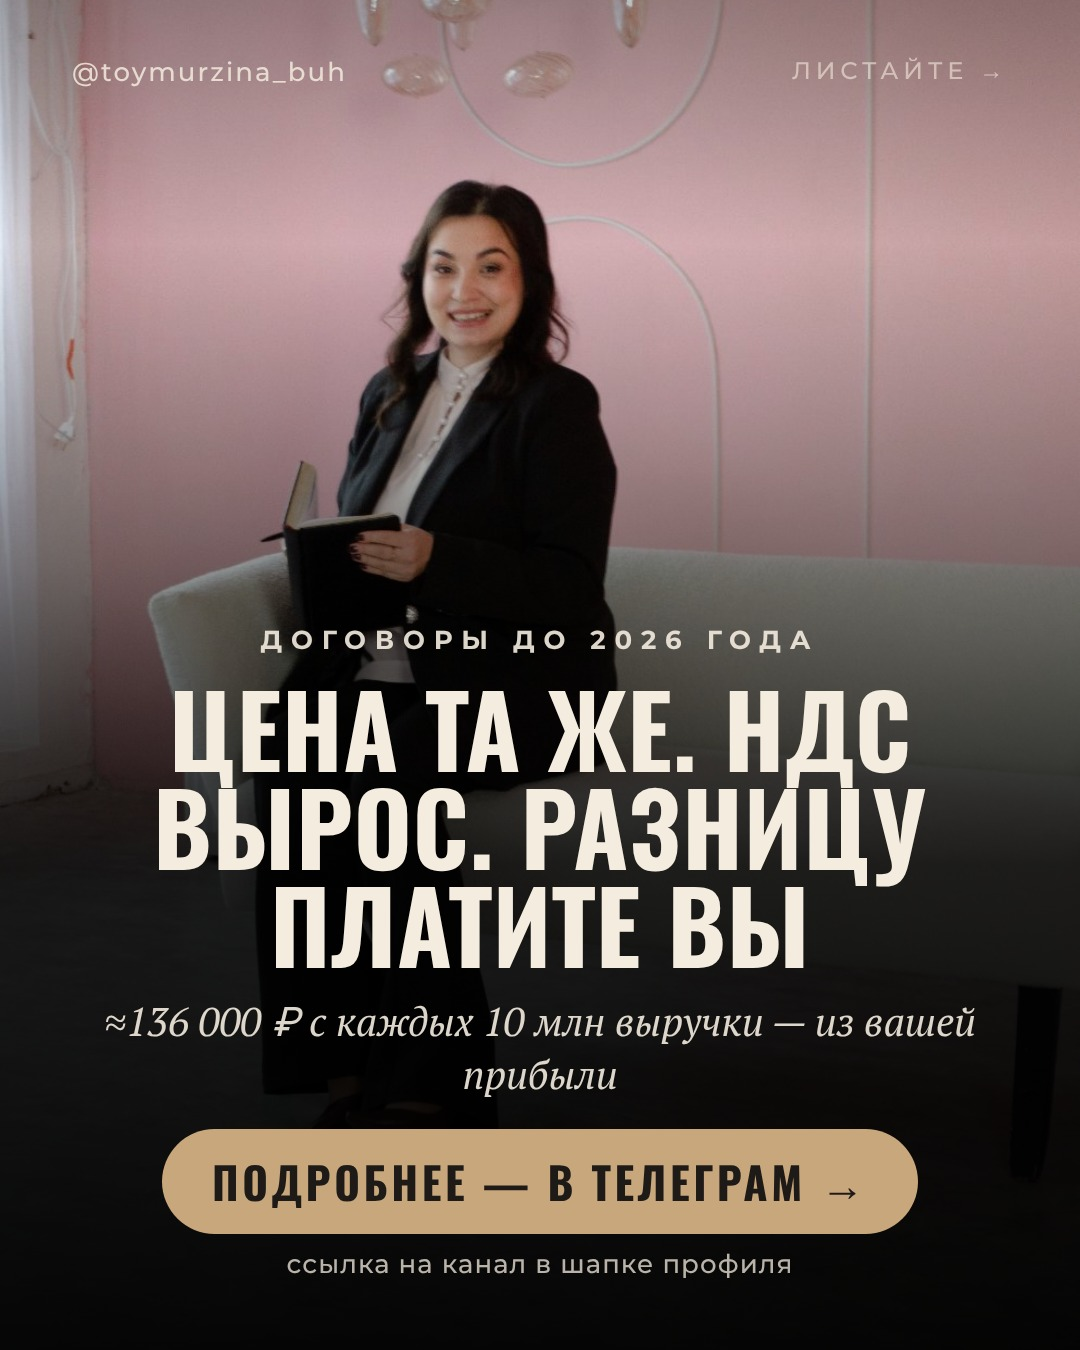
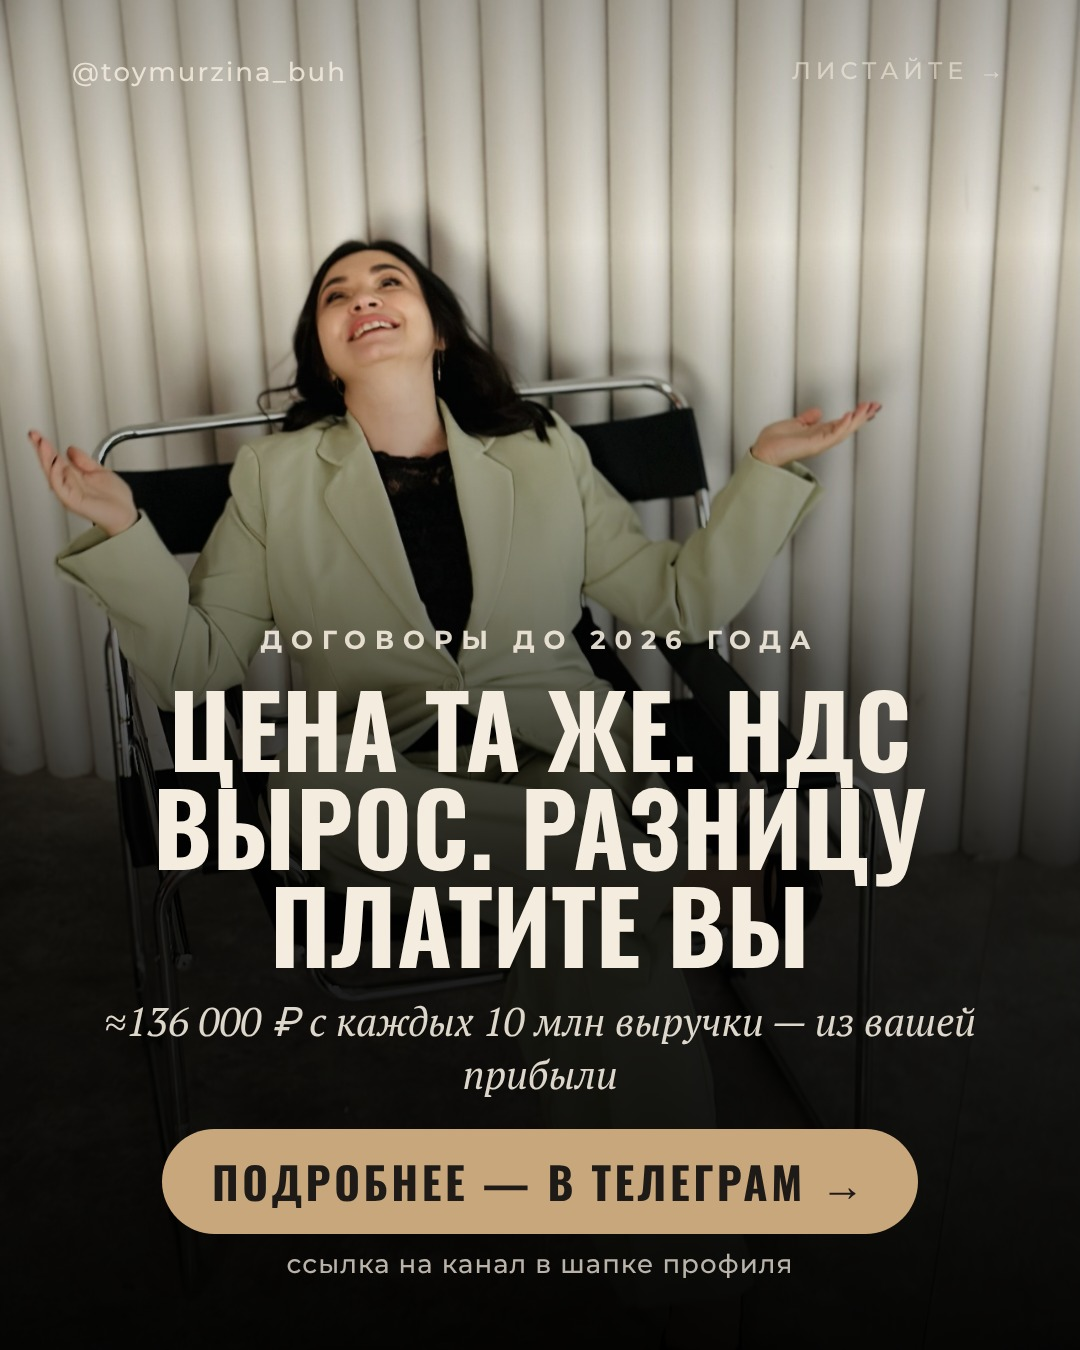
Карусель НДС 22%: обложка на резком фото (зелёный костюм)
Claude-Session: https://claude.ai/code/session_01Rsqfjaxu59fiZguhjD3EQz

diff --git a/content/carousels_g1004.py b/content/carousels_g1004.py
@@ -11,4 +11,4 @@ CAROUSELS = [{'date': '2026-10-04',
              ('05', 'Допсоглашение', 'Самый спокойный путь — зафиксировать цену и порядок НДС допсоглашением. Без него спор с контрагентом почти гарантирован.'),
              ('итог', 'Проверьте договоры сейчас', 'Как формулировать условие о цене и что писать в допсоглашении — разбираю в Телеграм-канале. Ссылка в шапке профиля.')],
   'caption': '',
-  'photo': ('DSC_1544.jpg', '35%')}]
+  'photo': ('IMG_6922_kostyum.jpg', '0%')}]
